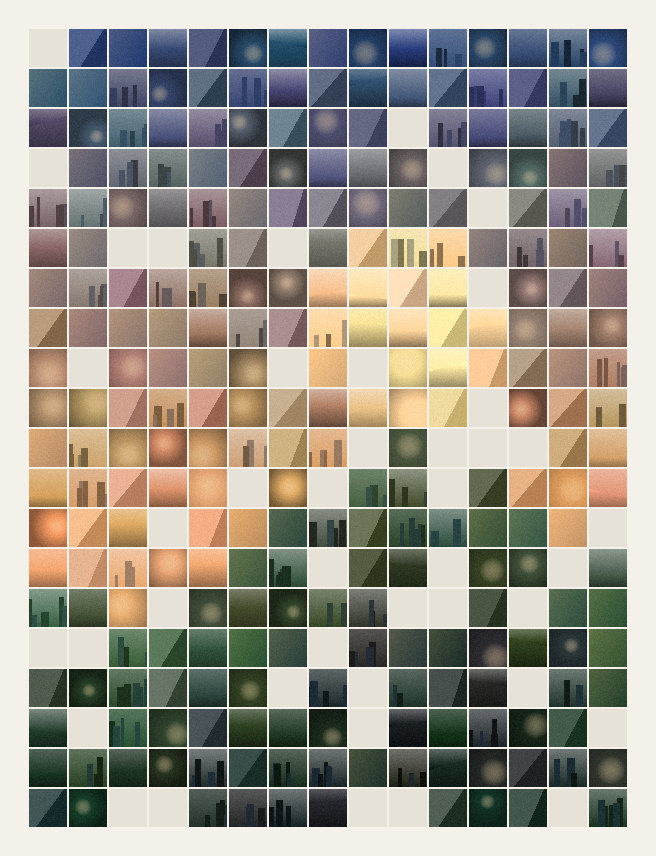
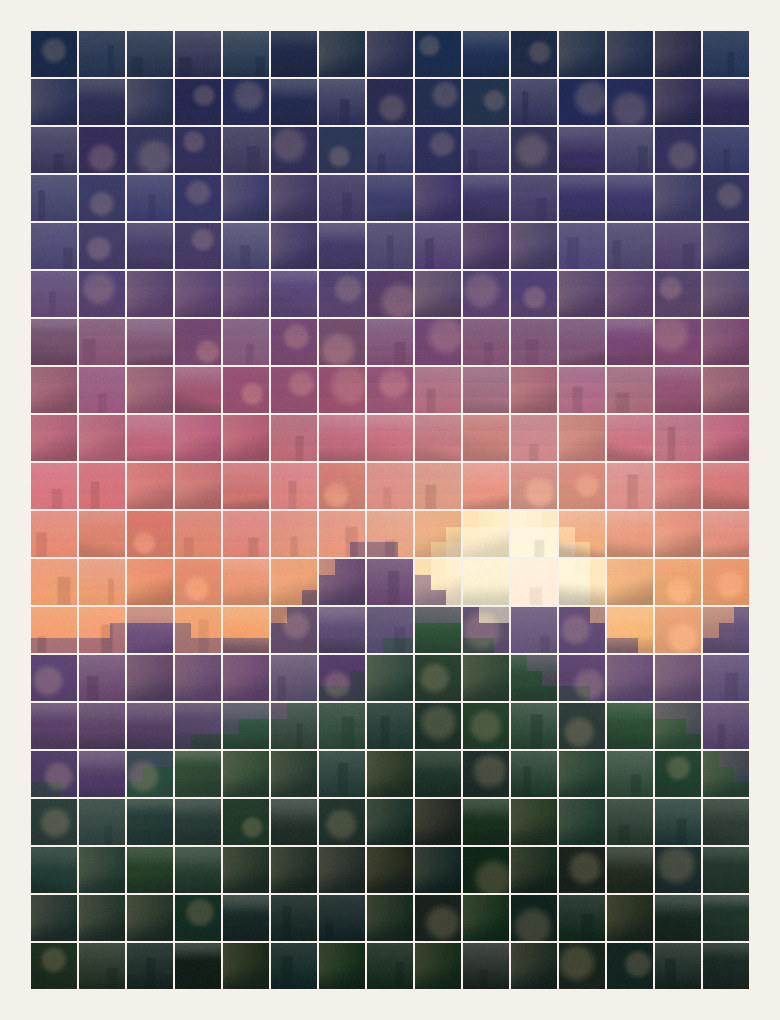
New mosaic mock-up; feature card wording

diff --git a/index.html b/index.html
@@ -136,12 +136,12 @@ details summary::-webkit-details-marker{display:none}
 <div style="flex:1 1 340px;box-sizing:border-box;border-radius:22px;border:1px solid rgba(255,255,255,0.14);background:#0F1722;padding:32px">
 <svg width="44" height="44" viewBox="0 0 24 24" fill="none" stroke="#F2C14E" stroke-width="1.6" stroke-linecap="round" aria-hidden="true"><circle cx="12" cy="12" r="9"/><path d="M12 7v5l3 2"/></svg>
 <h3 style="margin:18px 0 8px;font-size:22px">Both clocks</h3>
-<p style="margin:0;font-size:16px;line-height:1.55;color:#B8C6D8">Their time and yours, side by side, each in its own time zone. You always know if it is a good moment to call.</p>
+<p style="margin:0;font-size:16px;line-height:1.55;color:#B8C6D8">Their time and yours, side by side. You always know if it is a good moment to call.</p>
 </div>
 
 <div style="flex:1 1 340px;box-sizing:border-box;border-radius:22px;border:1px solid rgba(255,255,255,0.14);background:#0F1722;padding:32px">
 <svg width="44" height="44" viewBox="0 0 24 24" fill="none" stroke="#7FB2F0" stroke-width="1.6" stroke-linecap="round" aria-hidden="true"><path d="M4 12c2-5 6-5 8 0s6 5 8 0"/></svg>
-<h3 style="margin:18px 0 8px;font-size:22px">A mood word</h3>
+<h3 style="margin:18px 0 8px;font-size:22px">Daily pulse check</h3>
 <p style="margin:0;font-size:16px;line-height:1.55;color:#B8C6D8">One word, once a day. "Partner is golden today." No explaining needed, and no pressure to reply.</p>
 </div>
 
@@ -154,7 +154,7 @@ details summary::-webkit-details-marker{display:none}
 <div style="flex:1 1 340px;box-sizing:border-box;border-radius:22px;border:1px solid rgba(255,255,255,0.14);background:#0F1722;padding:32px">
 <svg width="44" height="44" viewBox="0 0 24 24" fill="none" stroke="#F2C14E" stroke-width="1.6" stroke-linecap="round" stroke-linejoin="round" aria-hidden="true"><path d="M5 4h10a4 4 0 0 1 4 4v12H9a4 4 0 0 1-4-4Z"/><path d="M9 9h6M9 13h4"/></svg>
 <h3 style="margin:18px 0 8px;font-size:22px">Your own dictionary</h3>
-<p style="margin:0;font-size:16px;line-height:1.55;color:#B8C6D8">Send a word, with a blurred photo clue if you like. Your person guesses it letter by letter, and any photo sharpens as they go. Every solved word goes in the book.</p>
+<p style="margin:0;font-size:16px;line-height:1.55;color:#B8C6D8">Send a word and your partner guesses it letter by letter. Every solved word goes in the book, with photos to further build out your world.</p>
 </div>
 
 <div style="flex:1 1 340px;box-sizing:border-box;border-radius:22px;border:1px solid rgba(255,255,255,0.14);background:#0F1722;padding:32px">
@@ -166,7 +166,7 @@ details summary::-webkit-details-marker{display:none}
 <div style="flex:1 1 340px;box-sizing:border-box;border-radius:22px;border:1px solid rgba(255,255,255,0.14);background:#0F1722;padding:32px">
 <svg width="44" height="44" viewBox="0 0 24 24" fill="none" stroke="#7FB2F0" stroke-width="1.6" stroke-linecap="round" stroke-linejoin="round" aria-hidden="true"><path d="M5 5h14v10H10l-4 4v-4H5Z"/><path d="M9 9.5c0-1.2 1-2 2.2-2 1.3 0 2.1.8 2.1 1.8 0 1.5-2 1.5-2 3"/></svg>
 <h3 style="margin:18px 0 8px;font-size:22px">One question a day</h3>
-<p style="margin:0;font-size:16px;line-height:1.55;color:#B8C6D8">A question for both of you. Answers stay sealed until you have each answered. You learn new things about each other.</p>
+<p style="margin:0;font-size:16px;line-height:1.55;color:#B8C6D8">Learn new things about each other by answering the same question daily and comparing responses.</p>
 </div>
 
 <div style="flex:1 1 340px;box-sizing:border-box;border-radius:22px;border:1px solid rgba(255,255,255,0.14);background:#0F1722;padding:32px">
@@ -211,7 +211,7 @@ details summary::-webkit-details-marker{display:none}
 </div>
 <div style="flex:1 1 360px;display:flex;justify-content:center">
 <div style="width:100%;max-width:420px;padding:18px;box-sizing:border-box;border-radius:6px;background:#0A0F16;box-shadow:0 30px 80px rgba(0,0,0,0.5)">
-<img src="/mosaic.jpg" width="656" height="856" alt="A photomosaic mid-month: hundreds of small photos arranged on a cream mat so that together they form a sunset over green hills, with a few tiles still empty." style="display:block;width:100%;height:auto;border-radius:2px">
+<img src="/mosaic.jpg" width="780" height="1020" alt="A finished photomosaic: hundreds of small photos on a cream mat that together form a sunset over purple and green hills." style="display:block;width:100%;height:auto;border-radius:2px">
 </div>
 </div>
 </div>
